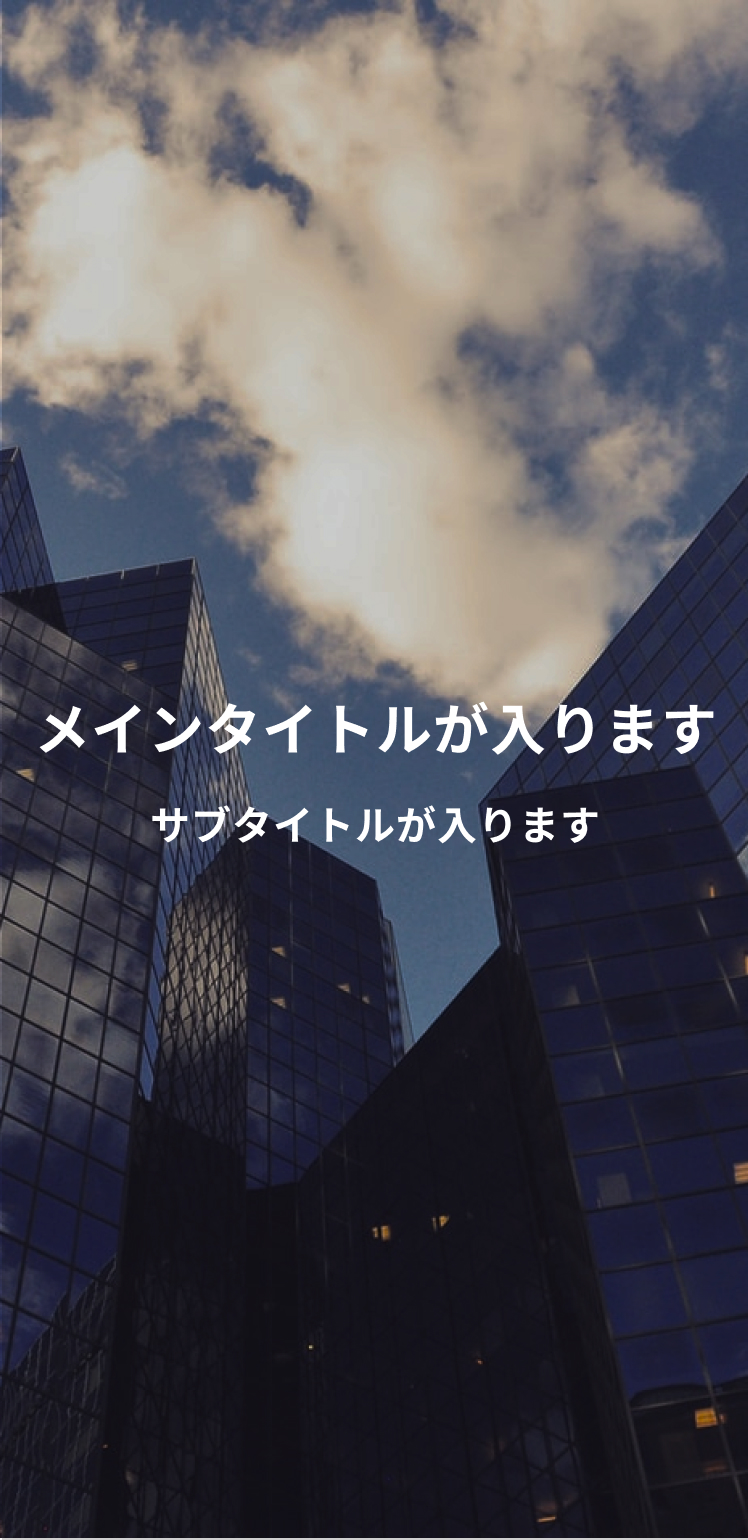
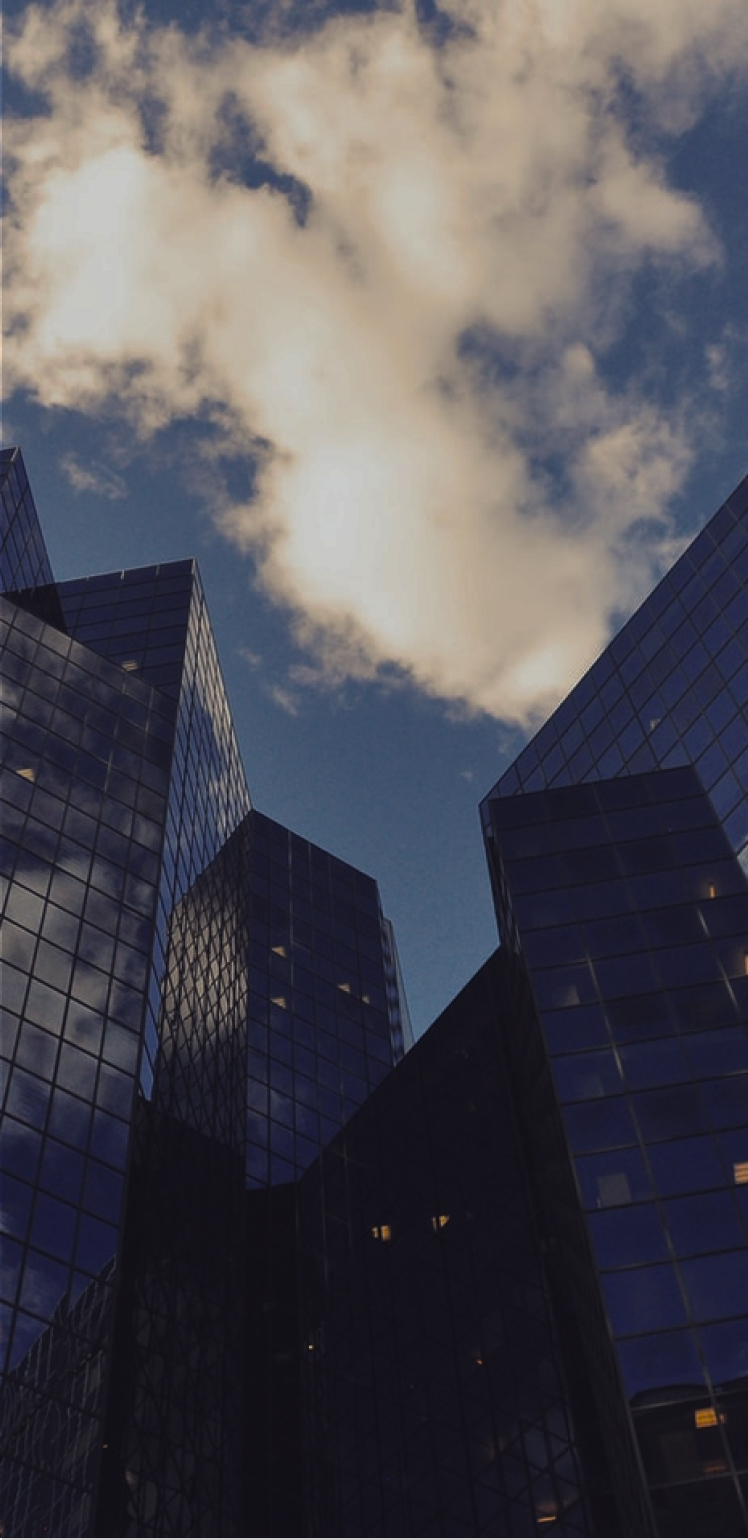
mv修正

diff --git a/src/sass/object/project/_p-mv.scss b/src/sass/object/project/_p-mv.scss
@@ -1,5 +1,9 @@
 @use "global" as *;
 
+.p-mv {
+  position: relative;
+}
+
 .sp-slide-image1,
 .sp-slide-image2,
 .sp-slide-image3,
@@ -35,6 +39,39 @@
 
 .pc-slide-image3 {
 	background-image: url(../images/top/mv03-pc.jpg);
+}
+
+.slide-content {
+  content: "";
+  position: absolute;
+  top: 50%;
+  left: 50%;
+  transform: translate(-50%, -50%);
+  width: 100%;
+  z-index: 1;
+  color: $white;
+  text-align: center;
+}
+
+.slide-content__head h2 {
+  font-size: rem(28);
+  font-weight: bold;
+  letter-spacing: 0.05em;
+
+  @include mq('md') {
+    font-size: rem(50);
+  }
+}
+
+.slide-content__txt {
+  font-size: rem(20);
+  font-weight: bold;
+  letter-spacing: 0.05em;
+  margin-top: rem(24);
+
+  @include mq('md') {
+    font-size: rem(25);
+  }
 }
 
 // ズームイン
